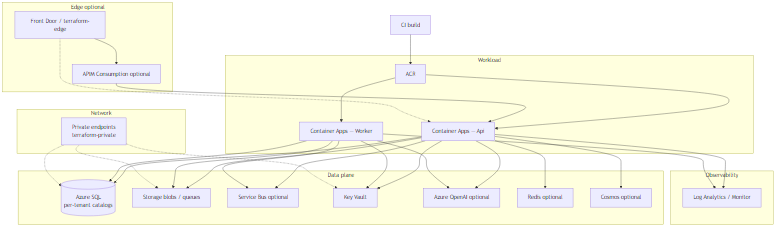
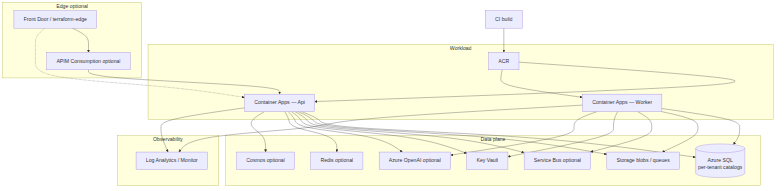
Remove private endpoints from network diagrams only
Exclude Microsoft.Network/privateEndpoints from inventory Network mode
and skip private-endpoint lock annotation there. Update static Azure
topology and private-link network Mermaid sources and re-render assets.

diff --git a/ArchLucid.ArtifactSynthesis.Tests/DiagramAstFromGraphCompilerTests.cs b/ArchLucid.ArtifactSynthesis.Tests/DiagramAstFromGraphCompilerTests.cs
@@ -350,6 +350,55 @@ public sealed class DiagramAstFromGraphCompilerTests
     }
 
     [Fact]
+    public void Compile_network_mode_excludes_private_endpoint_nodes_and_access_badges()
+    {
+        const string peArmId =
+            "/subscriptions/sub/resourceGroups/rg/providers/Microsoft.Network/privateEndpoints/pe-sql";
+        const string vnetArmId =
+            "/subscriptions/sub/resourceGroups/rg/providers/Microsoft.Network/virtualNetworks/core-vnet";
+        const string sqlArmId =
+            "/subscriptions/sub/resourceGroups/rg/providers/Microsoft.Sql/servers/sql/databases/app";
+
+        GraphSnapshot graph = new()
+        {
+            GraphSnapshotId = Guid.NewGuid(),
+            ContextSnapshotId = Guid.NewGuid(),
+            RunId = Guid.NewGuid(),
+            CreatedUtc = DateTime.UtcNow,
+            Nodes =
+            [
+                BuildNetworkTopologyNode("vnet-1", vnetArmId, "Microsoft.Network/virtualNetworks", "core-vnet"),
+                BuildNetworkTopologyNode("pe-1", peArmId, "Microsoft.Network/privateEndpoints", "pe-sql"),
+                BuildNetworkTopologyNode("sql-1", sqlArmId, "Microsoft.Sql/servers/databases", "app"),
+            ],
+            Edges =
+            [
+                new GraphEdge
+                {
+                    EdgeId = "edge-pe-sql",
+                    FromNodeId = "pe-1",
+                    ToNodeId = "sql-1",
+                    EdgeType = GraphEdgeTypes.ConnectsTo,
+                    Label = AzureInventoryRelationshipAssociationTypes.PrivateEndpointTarget,
+                    InferenceSource = GraphEdgeInferenceSources.InventoryPrivateEndpoint,
+                    Weight = 1.0d,
+                },
+            ],
+        };
+
+        DiagramAst ast = compiler.Compile(graph, DiagramMode.Network);
+
+        ast.Nodes.Should().ContainSingle();
+        ast.Nodes[0].Label.Should().Be("core-vnet");
+        ast.Nodes.Should().NotContain(node => node.Label == "pe-sql");
+        ast.Nodes.Should().OnlyContain(node => !node.HasPrivateEndpointAccess);
+
+        DiagramForestLayoutResult svg = new DiagramForestLayoutSvgRenderer().Render(ast);
+        svg.Svg.Should().NotContain("class=\"private-endpoint-lock\"");
+        svg.Svg.Should().NotContain("Private endpoint access");
+    }
+
+    [Fact]
     public void Compile_data_mode_flattens_sparse_swimlanes_when_many_resource_groups_each_hold_one_node()
     {
         GraphSnapshot graph = BuildDataSparseStorageGraph(resourceGroupCount: 12);
@@ -876,6 +925,25 @@ public sealed class DiagramAstFromGraphCompilerTests
             SourceType = "azure-inventory-snapshot",
             SourceId = armId,
             Properties = properties,
+        };
+    }
+
+    private static GraphNode BuildNetworkTopologyNode(string nodeId, string armId, string armType, string label)
+    {
+        return new GraphNode
+        {
+            NodeId = nodeId,
+            NodeType = GraphNodeTypes.TopologyResource,
+            Label = label,
+            SourceType = "azure-inventory-snapshot",
+            SourceId = armId,
+            Properties = new Dictionary<string, string>(StringComparer.Ordinal)
+            {
+                ["arm.id"] = armId,
+                ["arm.type"] = armType,
+                ["arm.resourceGroup"] = "rg",
+                ["arm.subscriptionId"] = "sub",
+            },
         };
     }
 }

diff --git a/ArchLucid.ArtifactSynthesis/Compilers/DiagramAstFromGraphCompiler.cs b/ArchLucid.ArtifactSynthesis/Compilers/DiagramAstFromGraphCompiler.cs
@@ -88,12 +88,16 @@ public sealed class DiagramAstFromGraphCompiler : IDiagramAstFromGraphCompiler
         }
 
         DiagramAstExecutiveLayoutSimplifier.FlattenSparseSubgraphs(ast, mode, options);
-        HashSet<string> privateEndpointDiagramNodeIdsToHide = DiagramPrivateEndpointTargetAnnotator.Apply(
-            ast,
-            graph.Nodes,
-            graph.Edges,
-            nodeIdMap);
-        DiagramPrivateEndpointCanvasPruner.RemoveNodes(ast, privateEndpointDiagramNodeIdsToHide);
+
+        if (mode is not DiagramMode.Network)
+        {
+            HashSet<string> privateEndpointDiagramNodeIdsToHide = DiagramPrivateEndpointTargetAnnotator.Apply(
+                ast,
+                graph.Nodes,
+                graph.Edges,
+                nodeIdMap);
+            DiagramPrivateEndpointCanvasPruner.RemoveNodes(ast, privateEndpointDiagramNodeIdsToHide);
+        }
         DiagramAstSubgraphPruner.PruneUnusedSubgraphs(ast);
         DiagramAstLayoutEdgeBuilder.AddDerivedVmVnetLayoutEdges(ast, graph, mode, nodeIdMap);
         DiagramAstLayoutEdgeBuilder.EnsureLayoutEdgesWhenEmpty(ast);
@@ -168,7 +172,8 @@ public sealed class DiagramAstFromGraphCompiler : IDiagramAstFromGraphCompiler
             case DiagramMode.Network:
                 return IncludeInventoryConnectedVirtualMachines(
                     graph,
-                    FilterByCategories(nodes, GraphTopologyCategories.Network));
+                    NetworkDiagramNodeFilter.ExcludePrivateEndpoints(
+                        FilterByCategories(nodes, GraphTopologyCategories.Network)));
             case DiagramMode.Security:
                 return FilterSecurityNodes(nodes);
             case DiagramMode.Identity:

diff --git a/ArchLucid.ArtifactSynthesis/Compilers/NetworkDiagramNodeFilter.cs b/ArchLucid.ArtifactSynthesis/Compilers/NetworkDiagramNodeFilter.cs
@@ -1,0 +1,32 @@
+using ArchLucid.Contracts.Persistence.Graph;
+
+namespace ArchLucid.ArtifactSynthesis.Compilers;
+
+/// <summary>
+///     Network-mode inventory diagrams omit private-endpoint cards; other modes keep PE annotation behavior.
+/// </summary>
+internal static class NetworkDiagramNodeFilter
+{
+    public static List<GraphNode> ExcludePrivateEndpoints(IReadOnlyList<GraphNode> nodes)
+    {
+        ArgumentNullException.ThrowIfNull(nodes);
+
+        return nodes
+            .Where(node => !IsPrivateEndpointResource(node))
+            .ToList();
+    }
+
+    private static bool IsPrivateEndpointResource(GraphNode node)
+    {
+        string armType = DiagramAstGraphNodeClassifier.ReadArmType(node);
+        string armId = DiagramAstGraphNodeClassifier.ReadArmId(node);
+
+        if (!string.IsNullOrWhiteSpace(armType)
+            && armType.Contains("privateEndpoints", StringComparison.OrdinalIgnoreCase))
+        {
+            return true;
+        }
+
+        return armId.Contains("/privateEndpoints/", StringComparison.OrdinalIgnoreCase);
+    }
+}

diff --git a/docs/architecture/architecture_diagrams/archlucid-azure-topology.md b/docs/architecture/architecture_diagrams/archlucid-azure-topology.md
@@ -30,10 +30,6 @@ flowchart TB
     COSMOS["Cosmos optional"]
   end
 
-  subgraph net["Network"]
-    PE["Private endpoints<br/>terraform-private"]
-  end
-
   subgraph obs["Observability"]
     LAW["Log Analytics / Monitor"]
   end
@@ -55,9 +51,6 @@ flowchart TB
   CA_WK --> AOAI
   CA_API --> REDIS
   CA_API --> COSMOS
-  PE -.-> SQL
-  PE -.-> ST
-  PE -.-> KV
   CA_API --> LAW
   CA_WK --> LAW
 ```
